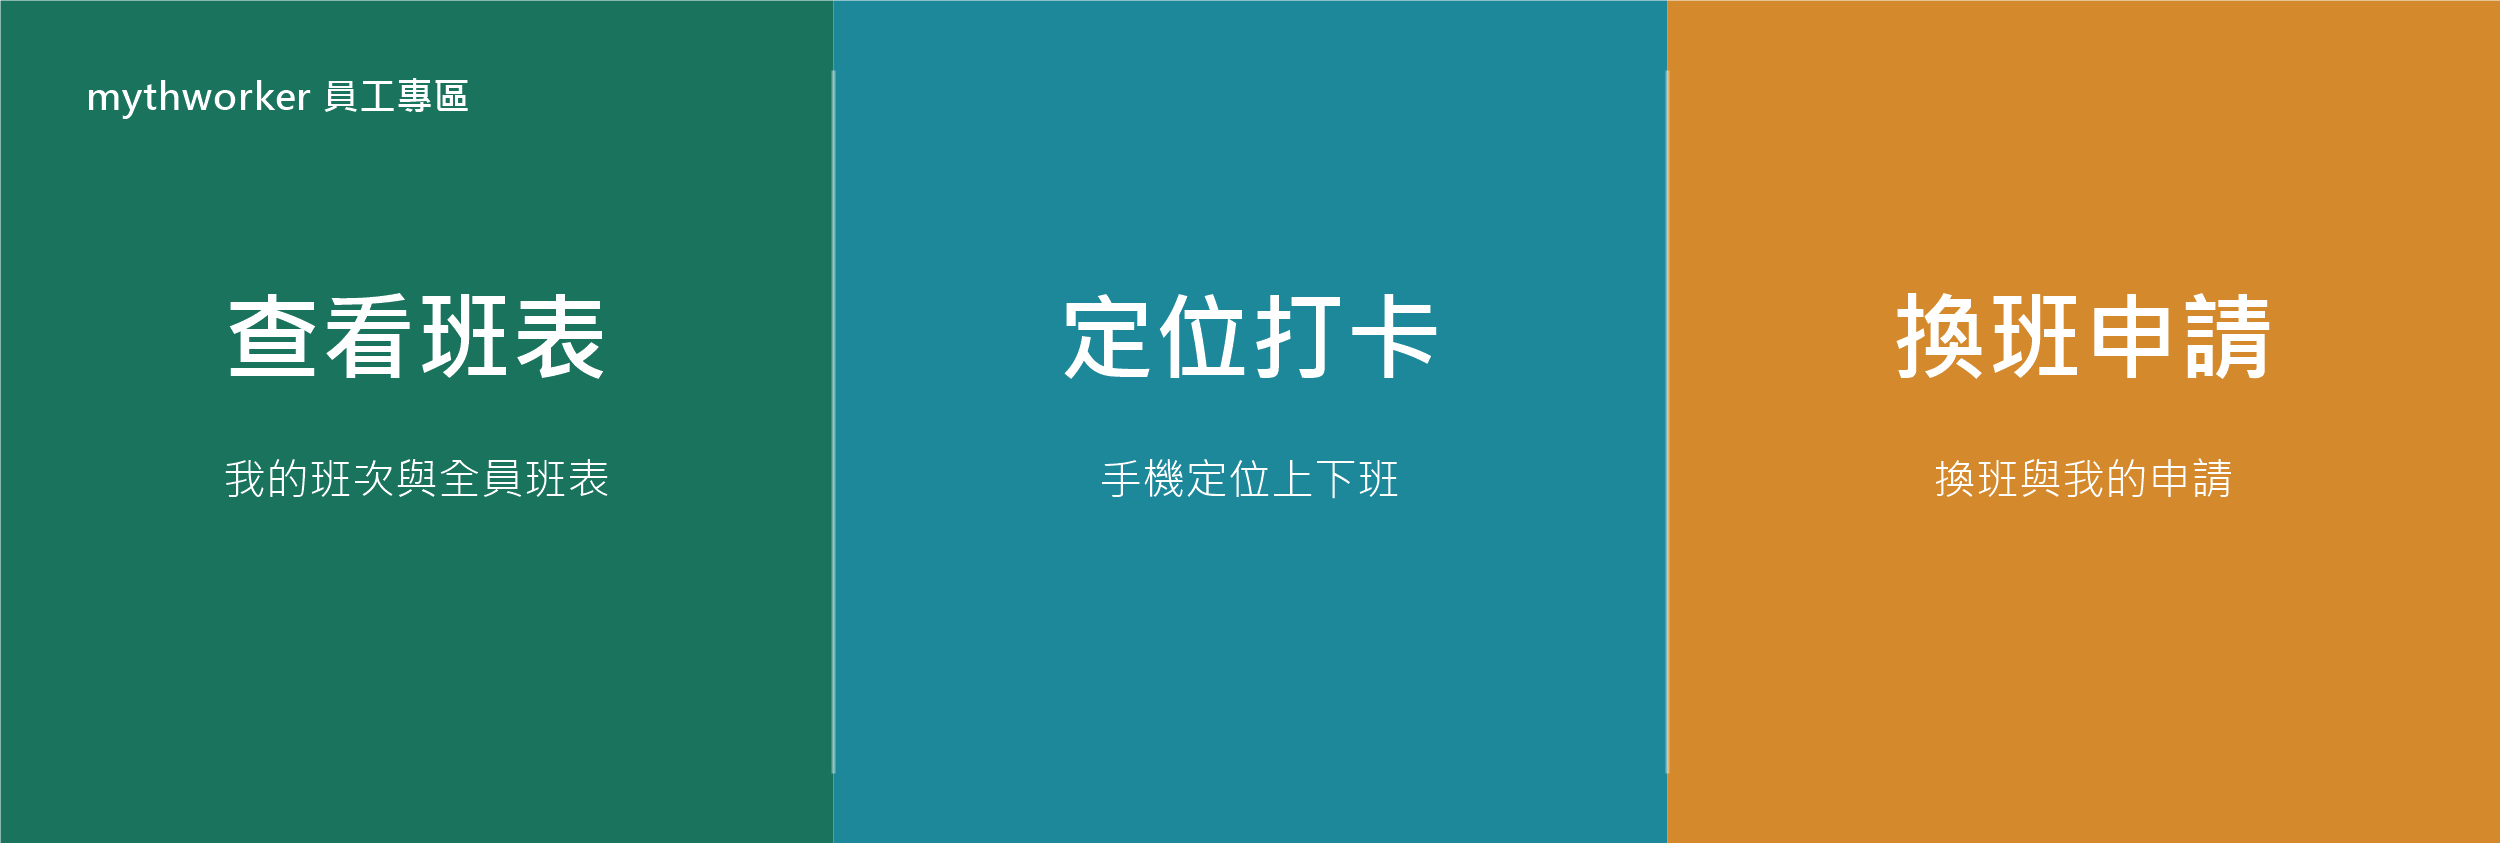
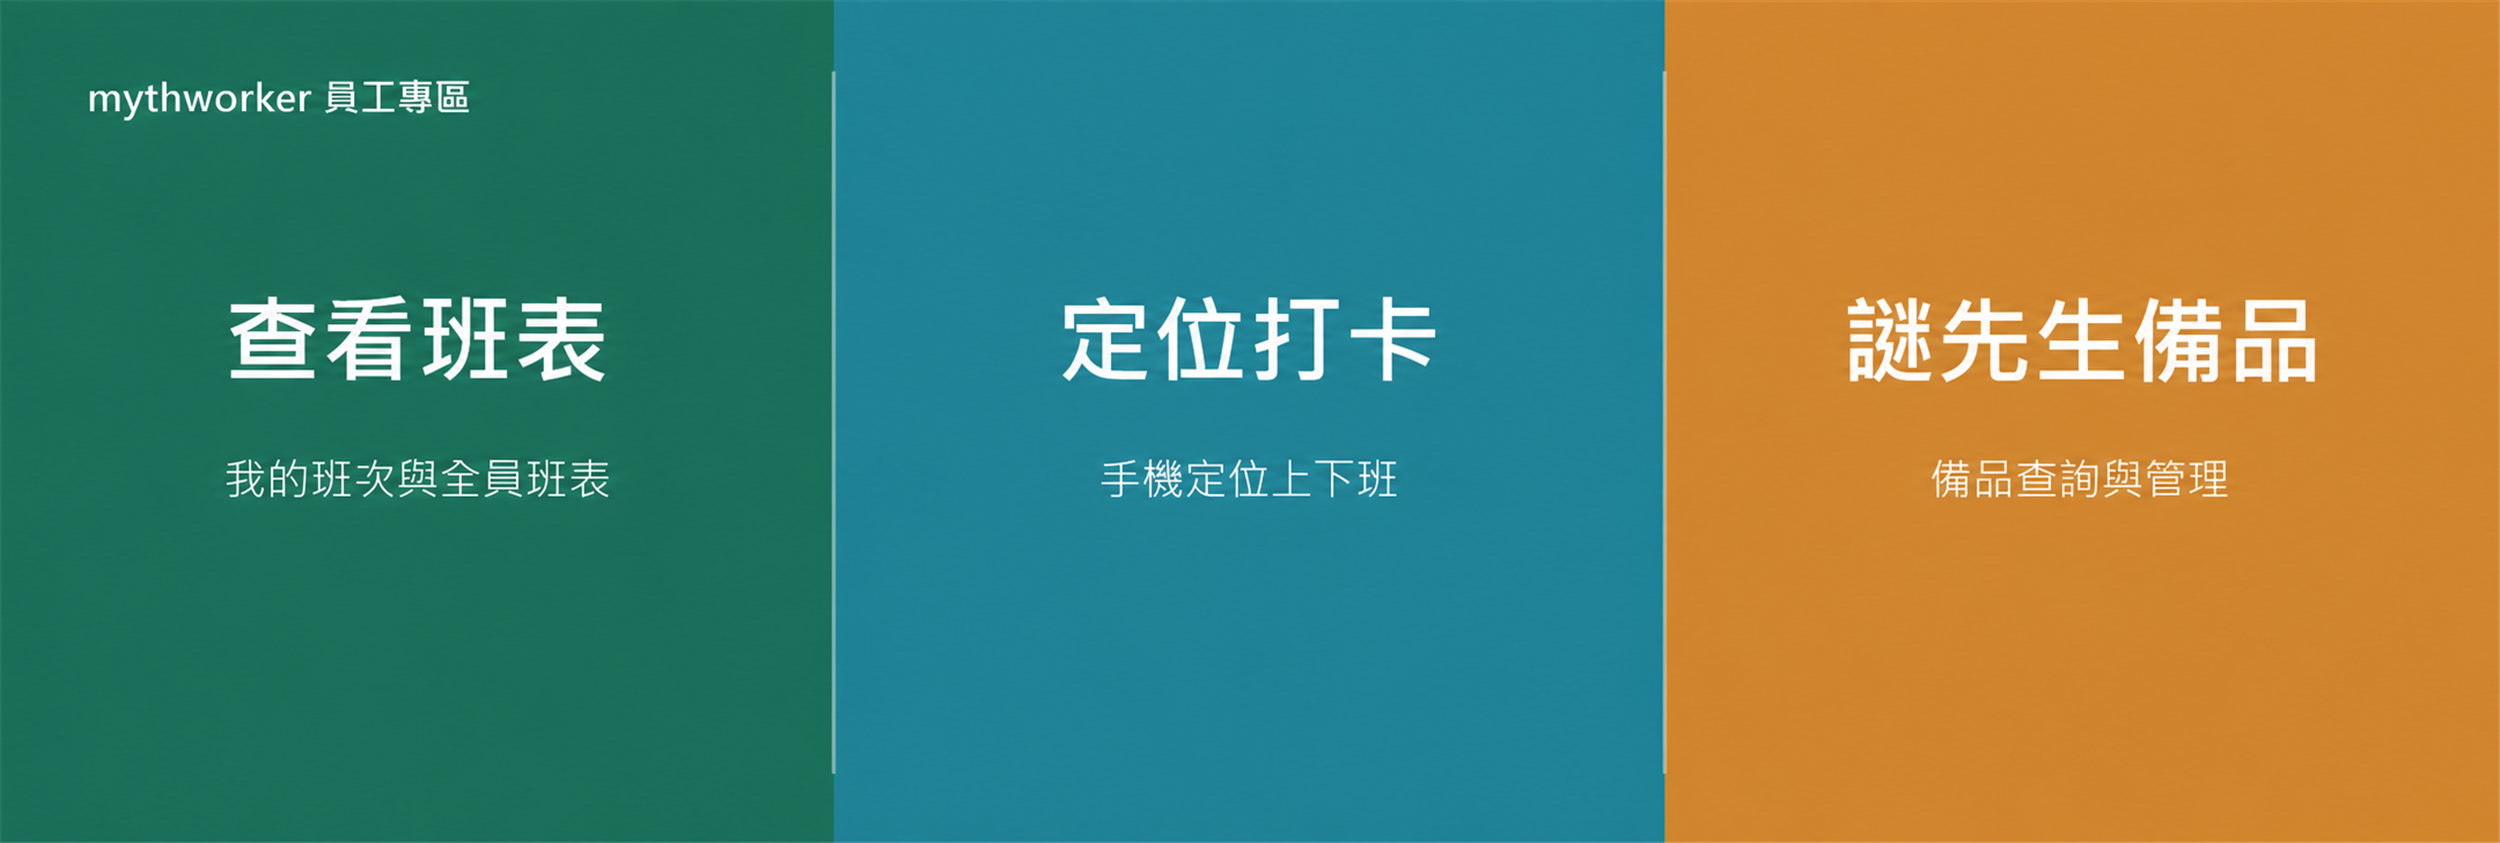
Simplify LINE menu and highlight paid bookings

diff --git a/web/staff.html b/web/staff.html
@@ -8,17 +8,17 @@ header{padding:20px 18px 16px;background:linear-gradient(135deg,#123e35,#1f7a62)
 main{max-width:720px;margin:auto;padding:14px}.card{background:#fff;border:1px solid var(--line);border-radius:16px;padding:16px;margin-bottom:12px;box-shadow:0 2px 8px #1018280a}
 h2{font-size:18px;margin:0 0 12px}.muted{color:var(--muted);font-size:13px}.notice{padding:12px;border-radius:10px;background:#fff4e5;color:var(--warn);margin-bottom:12px}.error{background:#fef3f2;color:var(--bad)}
 button,.button,select,input,textarea{font:inherit;border-radius:10px;border:1px solid #d0d5dd;padding:11px}button,.button{background:var(--brand);color:#fff;border:0;font-weight:700;cursor:pointer;text-decoration:none;display:inline-block}button.secondary{background:#eef2f6;color:var(--ink)}button.danger{background:#d92d20}button:disabled{opacity:.45}
-.row{display:flex;gap:9px;align-items:center;flex-wrap:wrap}.grow{flex:1}.grid{display:grid;grid-template-columns:repeat(2,1fr);gap:10px}.shift{border-left:5px solid #98a2b3;padding:11px 12px;background:#f9fafb;border-radius:8px;margin:8px 0}.shift.today{background:#fef7c3;border-color:#f79009}.shift.tomorrow{background:#fef7c3;border-color:#f79009}.shift.future{background:#eaf2ff;border-color:#2e90fa}.shift.past{background:#f2f4f7;border-color:#98a2b3}.shift.unfilled{background:#eaecf0!important;border-color:#667085!important;color:#475467}.shift.attendance-need-in{background:#fef7c3!important;border-color:#f79009!important}.shift.attendance-working{background:#eaf2ff!important;border-color:#2e90fa!important}.shift.attendance-done{background:#dcfae6!important;border-color:#079455!important}.shift.cancelled{opacity:.55;text-decoration:line-through}.tag{font-size:12px;background:#eef2f6;padding:3px 7px;border-radius:99px}.status{display:inline-block;font-size:12px;font-weight:800;margin-top:7px;padding:4px 8px;border-radius:99px}.status.need-in{background:#fef0c7;color:#b54708}.status.working{background:#d1e9ff;color:#175cd3}.status.done{background:#dcfae6;color:#067647}.verified{color:#067647}.anomaly{color:var(--bad)}.policy{border-left:4px solid #2e90fa;background:#eff8ff;padding:11px;border-radius:8px;font-size:13px}.record{padding:9px 0;border-bottom:1px solid #eee}.record.voided{opacity:.55;text-decoration:line-through}.work-choice{display:flex;align-items:flex-start;gap:10px;border:1px solid #d0d5dd;border-radius:10px;padding:10px;margin:8px 0;background:#fff}.work-choice input{width:auto;margin-top:4px}.legend{display:flex;gap:8px;flex-wrap:wrap;margin:8px 0 12px}.legend span{font-size:12px;font-weight:700;padding:5px 9px;border-radius:99px}.legend .today{background:#dcfae6}.legend .tomorrow{background:#fef7c3}.legend .future{background:#eaf2ff}.legend .empty{background:#eaecf0}.reminder{border:2px solid #f04438;background:#fff1f0;color:#912018;padding:12px;border-radius:12px;font-weight:800}
+.row{display:flex;gap:9px;align-items:center;flex-wrap:wrap}.grow{flex:1}.grid{display:grid;grid-template-columns:repeat(2,1fr);gap:10px}.shift{border-left:5px solid #98a2b3;padding:11px 12px;background:#f9fafb;border-radius:8px;margin:8px 0}.shift.today{background:#fef7c3;border-color:#f79009}.shift.tomorrow{background:#fef7c3;border-color:#f79009}.shift.future{background:#eaf2ff;border-color:#2e90fa}.shift.past{background:#f2f4f7;border-color:#98a2b3}.shift.unfilled{background:#eaecf0!important;border-color:#667085!important;color:#475467}.shift.deposit-paid{background:#dcfae6!important;border-color:#079455!important;color:#065f46}.shift.attendance-need-in{background:#fef7c3!important;border-color:#f79009!important}.shift.attendance-working{background:#eaf2ff!important;border-color:#2e90fa!important}.shift.attendance-done{background:#dcfae6!important;border-color:#079455!important}.shift.cancelled{opacity:.55;text-decoration:line-through}.tag{font-size:12px;background:#eef2f6;padding:3px 7px;border-radius:99px}.status{display:inline-block;font-size:12px;font-weight:800;margin-top:7px;padding:4px 8px;border-radius:99px}.status.need-in{background:#fef0c7;color:#b54708}.status.working{background:#d1e9ff;color:#175cd3}.status.done{background:#dcfae6;color:#067647}.verified{color:#067647}.anomaly{color:var(--bad)}.policy{border-left:4px solid #2e90fa;background:#eff8ff;padding:11px;border-radius:8px;font-size:13px}.record{padding:9px 0;border-bottom:1px solid #eee}.record.voided{opacity:.55;text-decoration:line-through}.work-choice{display:flex;align-items:flex-start;gap:10px;border:1px solid #d0d5dd;border-radius:10px;padding:10px;margin:8px 0;background:#fff}.work-choice input{width:auto;margin-top:4px}.legend{display:flex;gap:8px;flex-wrap:wrap;margin:8px 0 12px}.legend span{font-size:12px;font-weight:700;padding:5px 9px;border-radius:99px}.legend .today{background:#dcfae6}.legend .tomorrow{background:#fef7c3}.legend .future{background:#eaf2ff}.legend .empty{background:#eaecf0}.legend .deposit{background:#dcfae6;color:#067647}.reminder{border:2px solid #f04438;background:#fff1f0;color:#912018;padding:12px;border-radius:12px;font-weight:800}
 .schedule-day{margin:16px 0}.schedule-day>h3{margin:0 0 8px}.schedule-board{display:grid;gap:10px;overflow-x:auto}.store-column{background:#f8fafc;border:1px solid var(--line);border-radius:12px;padding:9px}.store-column>h3{font-size:14px;margin:0 0 6px}.store-column .shift{font-size:13px;margin:6px 0;padding:9px}@media(max-width:540px){.filters .field{min-width:100%}}
 nav{position:fixed;z-index:4;bottom:0;left:0;right:0;background:#fff;border-top:1px solid var(--line);display:flex;padding-bottom:env(safe-area-inset-bottom)}nav button{flex:1;background:#fff;color:var(--muted);border-radius:0;padding:12px 3px;font-size:12px}nav button.on{color:var(--brand);background:var(--soft)}
 label{display:block;font-size:13px;font-weight:700;margin:10px 0 5px}input,select,textarea{width:100%;background:#fff}.hidden{display:none!important}.big{font-size:28px;font-weight:800}.ok{color:var(--brand)}
 </style></head><body>
 <header><h1>員工排班與打卡</h1><p id="hello">正在連接 LINE…</p></header>
 <main id="app"><div class="card">載入中…</div></main>
-<nav id="nav" class="hidden"><button data-tab="home" onclick="show('home')">今日班表</button><button data-tab="schedule" onclick="show('schedule')">班表</button><button data-tab="punch" onclick="show('punch')">打卡</button><button id="practiceNav" class="hidden" data-tab="practice" onclick="show('practice')">排練習</button><button id="swapNav" data-tab="requests" onclick="show('requests')">換班</button><button onclick="window.open('https://script.google.com/macros/s/AKfycbwfFHhK4W6Q9mLttUg_-Kryo5-fmnn4IMhyxsh5n60lRkGgzN9SLkKKdm_3_GqKhCsx/exec','_blank')">備品</button></nav>
+<nav id="nav" class="hidden"><button data-tab="schedule" onclick="show('schedule')">查看班表</button><button data-tab="punch" onclick="show('punch')">定位打卡</button><button onclick="window.open('https://script.google.com/macros/s/AKfycbwfFHhK4W6Q9mLttUg_-Kryo5-fmnn4IMhyxsh5n60lRkGgzN9SLkKKdm_3_GqKhCsx/exec','_blank')">謎先生備品</button></nav>
 <script src="https://static.line-scdn.net/liff/edge/2/sdk.js"></script><script src="config.js"></script>
 <script>
-let D=null,requestedTab=new URLSearchParams(location.search).get('tab'),tab=['home','schedule','punch','requests','practice'].includes(requestedTab)?requestedTab:requestedTab==='mine'?'requests':'home',idToken='',punchBusy=false,scheduleFilters={date:'',store:'',theme:''};const app=document.getElementById('app');
+let D=null,requestedTab=new URLSearchParams(location.search).get('tab'),tab=['home','schedule','punch','practice'].includes(requestedTab)?requestedTab:'home',idToken='',punchBusy=false,scheduleFilters={date:'',store:'',theme:''};const app=document.getElementById('app');
 const esc=s=>String(s??'').replace(/[&<>"']/g,c=>({'&':'&amp;','<':'&lt;','>':'&gt;','"':'&quot;',"'":'&#39;'}[c]));
 const api=async(body)=>{const r=await fetch(CFG.SUPABASE_URL+'/functions/v1/staff-api',{method:'POST',headers:{'content-type':'application/json','apikey':CFG.SUPABASE_ANON_KEY,'authorization':'Bearer '+idToken},body:JSON.stringify(body)});const x=await r.json();if(!r.ok)throw Object.assign(new Error(x.error||'連線失敗'),{status:r.status,data:x});return x};
 async function start(){
@@ -27,7 +27,7 @@ async function start(){
   catch(e){app.innerHTML=`<div class="notice error">${esc(e.message)}</div>`}
 }
 async function load(){
-  try{D=await api({action:'bootstrap'});document.getElementById('hello').textContent=D.me.name+'，今天也辛苦了';document.getElementById('nav').classList.remove('hidden');document.getElementById('swapNav').classList.toggle('hidden',D.me.type!=='full'&&D.me.role!=='manager');document.getElementById('practiceNav').classList.toggle('hidden',!D.me.canSchedulePractice);if(tab==='requests'&&D.me.type!=='full'&&D.me.role!=='manager')tab='home';if(tab==='practice'&&!D.me.canSchedulePractice)tab='home';show(tab)}
+  try{D=await api({action:'bootstrap'});document.getElementById('hello').textContent=D.me.name+'，今天也辛苦了';document.getElementById('nav').classList.remove('hidden');if(tab==='practice'&&!D.me.canSchedulePractice)tab='home';show(tab)}
   catch(e){if(e.data?.error==='NOT_BOUND')bindView(e.data.displayName);else app.innerHTML=`<div class="notice error">${esc(e.message)}</div>`}
 }
 function bindView(name){document.getElementById('hello').textContent=name||'首次使用';app.innerHTML=`<div class="card"><h2>綁定員工身分</h2><p class="muted">請向管理員取得一次性驗證碼。請勿使用其他同事的驗證碼。</p><label>驗證碼</label><input id="bindCode" maxlength="12" autocomplete="one-time-code" style="text-transform:uppercase"><button style="width:100%;margin-top:12px" onclick="bind()">完成綁定</button></div>`}
@@ -37,7 +37,7 @@ const empName=id=>D.employees.find(e=>e.id===id)?.name||'未排人',storeName=id
 const shiftName=s=>s.kind==='theme'?themeName(s.themeId):s.kind==='floor'?'駐店場控':s.kind==='cleaning'?'每周大清潔':s.kind==='practice'?'練習場':s.kind==='counter'?(s.storeId==='ms'?'謎先生櫃台':s.storeId==='dz'?'桌遊大忠店櫃台':'櫃台班'):'其他班別';
 const myShifts=()=>D.shifts.filter(s=>s.status!=='cancelled'&&(s.assignments||[]).some(a=>a.empId===D.me.id));
 function shiftCard(s,all=true){const mine=(s.assignments||[]).some(a=>a.empId===D.me.id);return `<div class="shift ${mine?'mine':''} ${s.status==='cancelled'?'cancelled':''}"><b>${esc(s.date)}　${esc(s.start)}–${esc(s.end)}</b><br>${esc(storeName(s.storeId))}・${esc(shiftName(s))}<br>${all?`<span class="muted">${(s.assignments||[]).map(a=>esc(empName(a.empId))+' ('+esc(a.role)+')').join('、')}</span>`:''}</div>`}
-function render(){if(!D)return;if(tab==='home')home();else if(tab==='schedule')schedule();else if(tab==='punch')punchView();else if(tab==='practice')practiceView();else requestView()}
+function render(){if(!D)return;if(tab==='schedule')schedule();else if(tab==='punch')punchView();else if(tab==='practice'&&D.me.canSchedulePractice)practiceView();else home()}
 function home(){const today=new Date().toLocaleDateString('sv-SE',{timeZone:'Asia/Taipei'}),list=myShifts().filter(s=>s.date===today),next=myShifts().filter(s=>s.date>today).sort((a,b)=>(a.date+a.start).localeCompare(b.date+b.start))[0];app.innerHTML=`<div class="card"><h2>今日班表</h2>${list.map(s=>shiftCard(s)).join('')||'<p class="muted">今天沒有排班</p>'}</div>${next?`<div class="card"><h2>下一個班次</h2>${shiftCard(next,false)}<button class="secondary" onclick="show('requests')">需要讓班或換班</button></div>`:''}<div class="grid"><button onclick="show('punch')">定位打卡</button><button class="secondary" onclick="show('schedule')">查看完整班表</button></div>`}
 function schedule(){const list=[...D.shifts].filter(s=>s.status!=='cancelled').sort((a,b)=>(a.date+a.start).localeCompare(b.date+b.start));app.innerHTML=`<div class="card"><h2>未來班表</h2><p class="muted">綠底是你的班次；薪資及個人打卡不會顯示給其他員工。</p>${list.map(s=>shiftCard(s)).join('')||'<p>目前沒有班次</p>'}</div>`}
 function punchView(){const active=(D.punches||[]).filter(p=>!p.voided_at),last=active[0],on=last?.type==='in',today=new Date().toLocaleDateString('sv-SE',{timeZone:'Asia/Taipei'}),todayShifts=myShifts().filter(s=>s.date===today),day=(D.attendanceDays||[]).find(x=>x.work_date===today);app.innerHTML=`<div class="card"><h2>定位打卡</h2><div class="big ${on?'ok':''}">${on?'上班中':'未上班'}</div>${todayShifts.length?`<p class="muted">今日安排：${todayShifts.map(s=>`${esc(s.start)}–${esc(s.end)} ${esc(storeName(s.storeId))}・${esc(shiftName(s))}`).join('<br>')}</p>`:'<p class="notice">今天沒有找到你的已排班班次；若為臨時支援仍可打卡，但會交由管理員確認。</p>'}<p class="muted">系統以伺服器時間、LINE本人身分及店家定位為準。請允許手機提供精確位置。</p><div class="grid"><button ${on||punchBusy?'disabled':''} onclick="doPunch('in')">上班打卡</button><button class="danger" ${!on||punchBusy?'disabled':''} onclick="doPunch('out')">下班打卡</button></div>${day?`<p class="muted" style="margin-top:10px">今日原始工時：${Math.floor(day.actual_minutes/60)}小時${day.actual_minutes%60}分・<b class="${day.status==='anomaly'?'anomaly':'verified'}">${day.status==='approved'?'已核准計薪':day.status==='anomaly'?'有異常待處理':'待管理員確認'}</b></p>`:''}</div><div class="card"><div class="policy"><b>打卡與薪資制度</b><br>原始打卡無法刪除或改時間；錯卡只能提出申請，由管理員作廢或補登並留下紀錄。時薪計算使用管理員核准的計薪分鐘。</div></div><div class="card"><h2>最近紀錄</h2>${(D.punches||[]).slice(0,16).map(p=>`<div class="record ${p.voided_at?'voided':''}"><div class="row"><span class="grow">${esc(p.ts.replace('T',' '))}</span><b>${p.type==='in'?'上班':'下班'}</b></div><span class="muted">${esc(D.worksites.find(w=>w.id===p.worksite_id)?.name||'管理員補登')}・${p.voided_at?'已作廢':p.review_state==='anomaly'?'異常待確認':'已記錄'}</span></div>`).join('')||'<p class="muted">尚無紀錄</p>'}<button class="secondary" style="margin-top:12px" onclick="toggleCorrection()">申請補卡／更正</button></div><div id="correctionBox" class="card hidden"><h2>補卡申請</h2><label>日期</label><input id="corDate" type="date" value="${today}"><label>申請類型</label><select id="corType" onchange="correctionFields()"><option value="missing_in">補上班卡</option><option value="missing_out">補下班卡</option><option value="correction">更正整日上下班時間</option></select><div id="corTimes"></div><label>原因</label><textarea id="corReason" placeholder="例如：到店後忘記按上班，實際已向店長報到"></textarea><button style="width:100%;margin-top:12px" onclick="submitCorrection()">送交管理員審核</button></div>`;correctionFields()}
@@ -71,12 +71,12 @@ function attendanceState(s){
   return {key:'done',text:'上下班打卡已完成'};
 }
 function shiftCard(s,all=true){
-  const assigned=(s.assignments||[]).filter(a=>a.empId),unfilled=(s.assignments||[]).some(a=>!a.empId),mine=assigned.some(a=>a.empId===D.me.id),role=assigned.find(a=>a.empId===D.me.id)?.role||'',npc=role.toUpperCase()==='NPC',state=mine&&s.date<=taipeiDate()?attendanceState(s):null,confirmed=(D.shiftConfirmations||[]).some(x=>x.shift_id===s.id&&x.status==='confirmed');
+  const assigned=(s.assignments||[]).filter(a=>a.empId),unfilled=(s.assignments||[]).some(a=>!a.empId),depositPending=unfilled&&s.depositPaid,mine=assigned.some(a=>a.empId===D.me.id),role=assigned.find(a=>a.empId===D.me.id)?.role||'',npc=role.toUpperCase()==='NPC',state=mine&&s.date<=taipeiDate()?attendanceState(s):null,confirmed=(D.shiftConfirmations||[]).some(x=>x.shift_id===s.id&&x.status==='confirmed');
   const direct=state?.key==='need-in'?`<button style="margin-top:9px" onclick="directShiftPunch('in','${esc(s.id)}')">${npc?'NPC 場次報到':'這一場上班打卡'}</button>`:state?.key==='working'?`<button class="danger" style="margin-top:9px" onclick="directShiftPunch('out','${esc(s.id)}')">這一場下班打卡</button>`:'';
   const receipt=mine&&s.date>=taipeiDate()?(confirmed?'<span class="status done">已確認收到</span>':`<button class="secondary" style="margin-top:9px" onclick="confirmShift('${esc(s.id)}')">確認收到這個班</button>`):'';
   const pastFix=mine&&s.date<taipeiDate()&&state?.key!=='done'?`<button class="secondary" style="margin-top:9px" onclick="openPastCorrection('${esc(s.id)}')">申請這一場補卡</button>`:'';
   const groups=s.candidateGroups||{},candidates=unfilled?`<div class="muted" style="margin-top:7px"><b>建議順序</b><br>① 已在本店且不衝堂：${(groups.onSite||[]).map(esc).join('、')||'無'}<br>② 時間可配合：${(groups.available||[]).map(esc).join('、')||'無'}</div><button class="secondary" style="margin-top:9px" onclick="openGuestReport('${esc(s.id)}')">回報現場／預約客人</button>`:'';
-  return `<div class="shift ${dateClass(s.date)} ${unfilled?'unfilled':''} ${state?'attendance-'+state.key:''} ${s.status==='cancelled'?'cancelled':''}"><b>${esc(s.date)}　${esc(s.start)}–${esc(s.end)}</b><br>${esc(storeName(s.storeId))}・${esc(shiftName(s))}<br>${unfilled?`<span class="tag">空場／尚未排人</span>${assigned.length?`<br><span class="muted">已排：${assigned.map(a=>esc(empName(a.empId))+' ('+esc(a.role)+')').join('、')}</span>`:''}`:all?`<span class="muted">${assigned.map(a=>esc(empName(a.empId))+' ('+esc(a.role)+')').join('、')}</span>`:''}${candidates}${mine?`<br>${receipt}`:''}${state?`<br><span class="status ${state.key}">${state.text}</span><br>${s.date===taipeiDate()?direct:pastFix}`:''}</div>`
+  return `<div class="shift ${dateClass(s.date)} ${depositPending?'deposit-paid':unfilled?'unfilled':''} ${state?'attendance-'+state.key:''} ${s.status==='cancelled'?'cancelled':''}"><b>${esc(s.date)}　${esc(s.start)}–${esc(s.end)}</b><br>${esc(storeName(s.storeId))}・${esc(shiftName(s))}<br>${unfilled?`<span class="tag">${depositPending?'已付訂金／待安排人':'空場／目前沒有預約'}</span>${assigned.length?`<br><span class="muted">已排：${assigned.map(a=>esc(empName(a.empId))+' ('+esc(a.role)+')').join('、')}</span>`:''}`:all?`<span class="muted">${assigned.map(a=>esc(empName(a.empId))+' ('+esc(a.role)+')').join('、')}</span>`:''}${candidates}${mine?`<br>${receipt}`:''}${state?`<br><span class="status ${state.key}">${state.text}</span><br>${s.date===taipeiDate()?direct:pastFix}`:''}</div>`
 }
 function openGuestReport(id){
   const s=D.shifts.find(x=>x.id===id);if(!s)return alert('找不到這個場次，請重新整理後再試。');
@@ -108,6 +108,7 @@ function home(){
   const today=taipeiDate(),allToday=D.shifts.filter(s=>s.date===today&&s.status!=='cancelled').sort((a,b)=>a.start.localeCompare(b.start)),mine=allToday.filter(s=>(s.assignments||[]).some(a=>a.empId===D.me.id));
   const states=mine.map(attendanceState),needIn=states.filter(x=>x.key==='need-in').length,working=states.filter(x=>x.key==='working').length,done=states.filter(x=>x.key==='done').length;
   app.innerHTML=`<div class="card"><h2>我的今日班表</h2><div class="row"><span class="tag">我的 ${mine.length} 場</span><span class="tag">未打卡 ${needIn}</span><span class="tag">上班中 ${working}</span><span class="tag">已完成 ${done}</span></div><div class="legend"><span class="tomorrow">黃色：未打卡</span><span class="future">藍色：上班中</span><span class="today">綠色：已完成</span></div><div class="reminder">到店先完成上班定位打卡；工作結束離店前，務必再完成下班定位打卡。NPC 只需場次報到。</div>${mine.map(s=>shiftCard(s)).join('')||'<p class="muted">今天沒有指派給你的工作</p>'}</div><div class="grid"><button onclick="show('punch')">前往定位打卡</button><button class="secondary" onclick="show('schedule')">查看完整班表</button></div>`
+  if(D.me.canSchedulePractice)app.insertAdjacentHTML('beforeend',`<div class="card"><h2>新人練習場安排</h2><p class="muted">你有安排新人練習場的權限；安排結果會同步到班表、出勤與薪資紀錄。</p><button style="width:100%" onclick="show('practice')">安排新人練習場</button></div>`);
   if(D.me.role==='manager')app.insertAdjacentHTML('beforeend',`<div class="card"><h2>管理員功能</h2><p class="muted">你同時保留員工打卡功能；安排班表、指派人員及查看全體資料請進入管理後台。</p><a class="button" style="display:block;text-align:center;text-decoration:none" href="https://weilena.github.io/staff-scheduler/web/admin.html" target="_blank" rel="noopener">開啟排班管理後台</a></div>`);
 }
 function schedule(){
@@ -116,7 +117,7 @@ function schedule(){
   const current=list.filter(s=>s.date>=taipeiDate()&&(!scheduleFilters.date||s.date===scheduleFilters.date)&&(!scheduleFilters.store||s.storeId===scheduleFilters.store)&&(!scheduleFilters.theme||s.themeId===scheduleFilters.theme));
   const dates=[...new Set(current.map(s=>s.date))],stores=scheduleFilters.store?D.stores.filter(s=>s.id===scheduleFilters.store):D.stores;
   const boards=dates.map(date=>`<div class="schedule-day"><h3>${esc(date)}${date===taipeiDate()?'（今天）':date===taipeiDate(1)?'（明天）':''}</h3><div class="schedule-board" style="grid-template-columns:repeat(${Math.max(1,stores.length)},minmax(${stores.length>1?'270px':'0'},1fr))">${stores.map(store=>{const rows=current.filter(s=>s.date===date&&s.storeId===store.id);return `<div class="store-column"><h3>${esc(store.name)}</h3>${rows.map(s=>shiftCard(s)).join('')||'<p class="muted">此日無場次</p>'}</div>`}).join('')}</div></div>`).join('');
-  app.innerHTML=`<div class="card"><h2>今日與未來班表</h2><div class="row filters"><div class="field grow"><label>日期</label><input type="date" value="${esc(scheduleFilters.date)}" onchange="setScheduleFilter('date',this.value)"></div><div class="field grow"><label>場地</label><select onchange="setScheduleFilter('store',this.value)"><option value="">全部場地</option>${D.stores.map(s=>`<option value="${s.id}" ${scheduleFilters.store===s.id?'selected':''}>${esc(s.name)}</option>`).join('')}</select></div><div class="field grow"><label>主題</label><select onchange="setScheduleFilter('theme',this.value)"><option value="">全部主題與工作</option>${D.themes.map(t=>`<option value="${t.id}" ${scheduleFilters.theme===t.id?'selected':''}>${esc(t.name)}</option>`).join('')}</select></div></div><div class="legend"><span class="tomorrow">黃色：明天／待打卡</span><span class="future">藍色：其他未來日期</span><span class="empty">灰色：空場／尚未排人</span></div><p class="muted">依時間排序，謎先生與勃根地大忠店並排顯示；可用上方條件縮小範圍。</p>${boards||'<p>目前沒有符合條件的班次</p>'}</div><div class="card"><h2>我的過去班表</h2><p class="muted">過去時間不能補做即時定位打卡；若忘記打卡，請由此送出補卡申請。</p>${past.reverse().map(s=>shiftCard(s,false)).join('')||'<p class="muted">最近沒有過去班表</p>'}</div>`
+  app.innerHTML=`<div class="card"><h2>今日與未來班表</h2><div class="row filters"><div class="field grow"><label>日期</label><input type="date" value="${esc(scheduleFilters.date)}" onchange="setScheduleFilter('date',this.value)"></div><div class="field grow"><label>場地</label><select onchange="setScheduleFilter('store',this.value)"><option value="">全部場地</option>${D.stores.map(s=>`<option value="${s.id}" ${scheduleFilters.store===s.id?'selected':''}>${esc(s.name)}</option>`).join('')}</select></div><div class="field grow"><label>主題</label><select onchange="setScheduleFilter('theme',this.value)"><option value="">全部主題與工作</option>${D.themes.map(t=>`<option value="${t.id}" ${scheduleFilters.theme===t.id?'selected':''}>${esc(t.name)}</option>`).join('')}</select></div></div><div class="legend"><span class="tomorrow">黃色：明天／待打卡</span><span class="future">藍色：其他未來日期</span><span class="empty">灰色：空場／目前沒有預約</span><span class="deposit">綠色：已付訂金／待安排人</span></div><p class="muted">依時間排序，謎先生與勃根地大忠店並排顯示；可用上方條件縮小範圍。</p>${boards||'<p>目前沒有符合條件的班次</p>'}</div><div class="card"><h2>我的過去班表</h2><p class="muted">過去時間不能補做即時定位打卡；若忘記打卡，請由此送出補卡申請。</p>${past.reverse().map(s=>shiftCard(s,false)).join('')||'<p class="muted">最近沒有過去班表</p>'}</div>`
 }
 function setScheduleFilter(key,value){scheduleFilters[key]=value;schedule()}
 function workLabels(p){return Array.isArray(p?.work_item?.labels)?p.work_item.labels:[]}

diff --git a/supabase/functions/line-richmenu-setup/index.ts b/supabase/functions/line-richmenu-setup/index.ts
@@ -42,6 +42,7 @@ Deno.serve(async (request) => {
     if (typeof body.imageBase64 !== "string" || !body.imageBase64) {
       return json({ error: "imageBase64 is required" }, 400);
     }
+    const imageMime = body.imageMime === "image/jpeg" ? "image/jpeg" : "image/png";
 
     const menuName = "mythworker 員工選單";
     const oldMenus = await (await lineFetch("/v2/bot/richmenu/list", token)).json();
@@ -63,7 +64,7 @@ Deno.serve(async (request) => {
         areas: [
           { bounds: { x: 0, y: 0, width: 833, height: 843 }, action: { type: "uri", label: "查看班表", uri: `${liff}?tab=schedule` } },
           { bounds: { x: 833, y: 0, width: 834, height: 843 }, action: { type: "uri", label: "定位打卡", uri: `${liff}?tab=punch` } },
-          { bounds: { x: 1667, y: 0, width: 833, height: 843 }, action: { type: "uri", label: "正職換班申請", uri: `${liff}?tab=requests` } },
+          { bounds: { x: 1667, y: 0, width: 833, height: 843 }, action: { type: "uri", label: "謎先生備品", uri: "https://script.google.com/macros/s/AKfycbwfFHhK4W6Q9mLttUg_-Kryo5-fmnn4IMhyxsh5n60lRkGgzN9SLkKKdm_3_GqKhCsx/exec" } },
         ],
       }),
     });
@@ -72,7 +73,7 @@ Deno.serve(async (request) => {
     const binary = Uint8Array.from(atob(body.imageBase64), (char) => char.charCodeAt(0));
     await lineFetch(`/v2/bot/richmenu/${richMenuId}/content`, token, {
       method: "POST",
-      headers: { "Content-Type": "image/png" },
+      headers: { "Content-Type": imageMime },
       body: binary,
     }, true);
     await lineFetch(`/v2/bot/user/all/richmenu/${richMenuId}`, token, { method: "POST" });

diff --git a/supabase/functions/staff-api/index.ts b/supabase/functions/staff-api/index.ts
@@ -58,7 +58,9 @@ Deno.serve(async (req) => {
         const onSiteIds = new Set(onSite.map((candidate: any) => candidate.id));
         return {
           id: s.id, date: s.date, storeId: s.storeId, kind: s.kind, themeId: s.themeId, start: s.start, end: s.end,
-          status: s.status ?? "active", assignments: s.assignments ?? [], candidateGroups: emptyRoles.length ? {
+          status: s.status ?? "active", assignments: s.assignments ?? [],
+          depositPaid: ["paid", "completed"].includes(String(s.payment?.depositStatus ?? "").toLowerCase()),
+          candidateGroups: emptyRoles.length ? {
             onSite: onSite.map((candidate: any) => candidate.name),
             available: ranked.filter((candidate: any) => !onSiteIds.has(candidate.id)).map((candidate: any) => candidate.name),
           } : null,

diff --git a/supabase/functions/line-webhook/index.ts b/supabase/functions/line-webhook/index.ts
@@ -40,7 +40,6 @@ function employeePortalMessages() {
       actions: [
         { type: "uri", label: "查看班表", uri: link("schedule") },
         { type: "uri", label: "手機定位打卡", uri: link("punch") },
-        { type: "uri", label: "正職換班申請", uri: link("requests") },
         { type: "uri", label: "謎先生備品系統", uri: "https://script.google.com/macros/s/AKfycbwfFHhK4W6Q9mLttUg_-Kryo5-fmnn4IMhyxsh5n60lRkGgzN9SLkKKdm_3_GqKhCsx/exec" },
       ],
     },